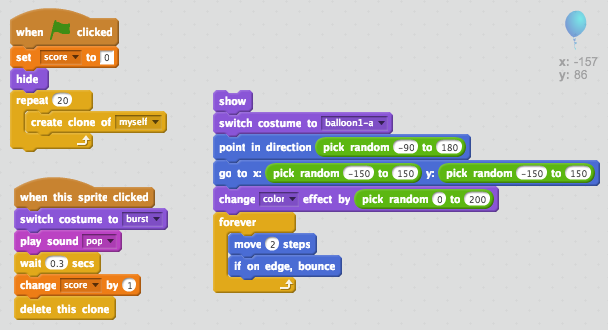
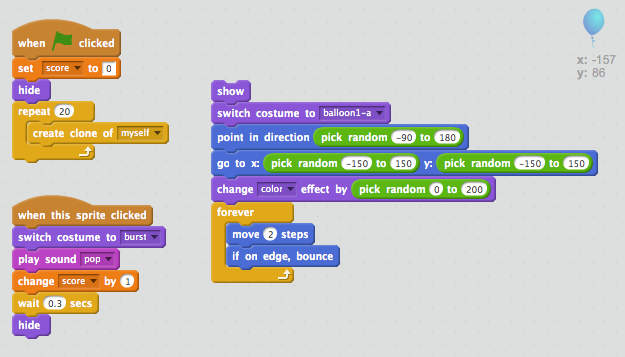
Balloons -- replaced 'delete this clone' block with a 'hide' block. Fixes #211

diff --git a/en-GB/Term 1/Balloons/Balloons.md b/en-GB/Term 1/Balloons/Balloons.md
@@ -124,14 +124,14 @@ Lets allow the player to pop the balloons!
 		play sound [pop v]
 	```
 
-+ Test out your project. Can you pop the balloon? Does it work as you expected? You'll need to improve this code, so that when the balloon is clicked, it shows the 'burst' costume for a short time, and is then deleted. You can make all of this happen by changing your balloon `when sprite clicked` {.blockevents} code to this:
++ Test out your project. Can you pop the balloon? Does it work as you expected? You'll need to improve this code, so that when the balloon is clicked, it shows the 'burst' costume for a short time, and is then hidden. You can make all of this happen by changing your balloon `when sprite clicked` {.blockevents} code to this:
 
 	```blocks
 		when this sprite clicked
 		switch costume to [burst v]
 		play sound [pop v]
 		wait (0.3) secs
-		delete this clone
+		hide
 	```
 
 + Now that you're deleting the balloon when it's clicked, you'll also need to add a `show` {.blocklooks} block to the start of the `when flag clicked` {.blockevents} code.
@@ -176,7 +176,7 @@ Let's make things more interesting by keeping score.
 		play sound [pop v]
 		wait (0.3) secs
 		change [score v] by (1)
-		delete this clone
+		hide
 	```
 
 + Run your program again and click the balloon. Does your score change?
